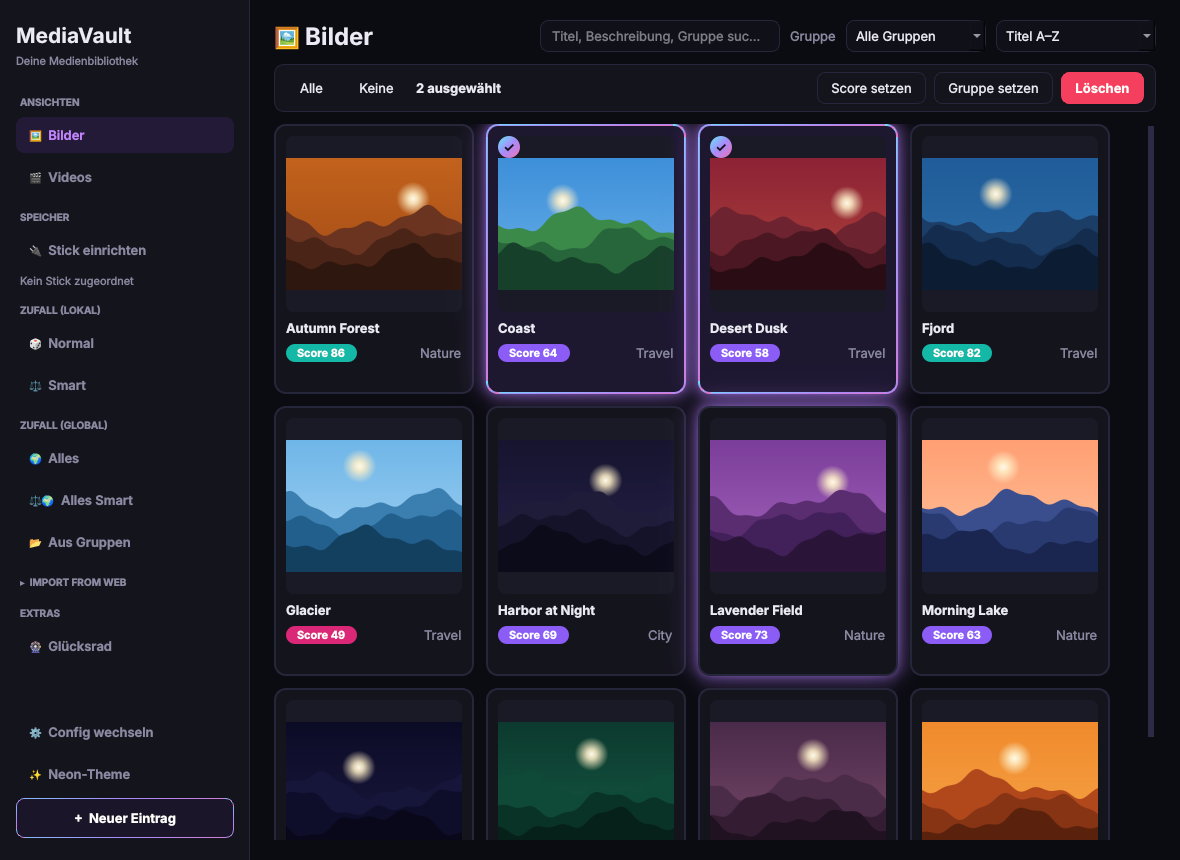
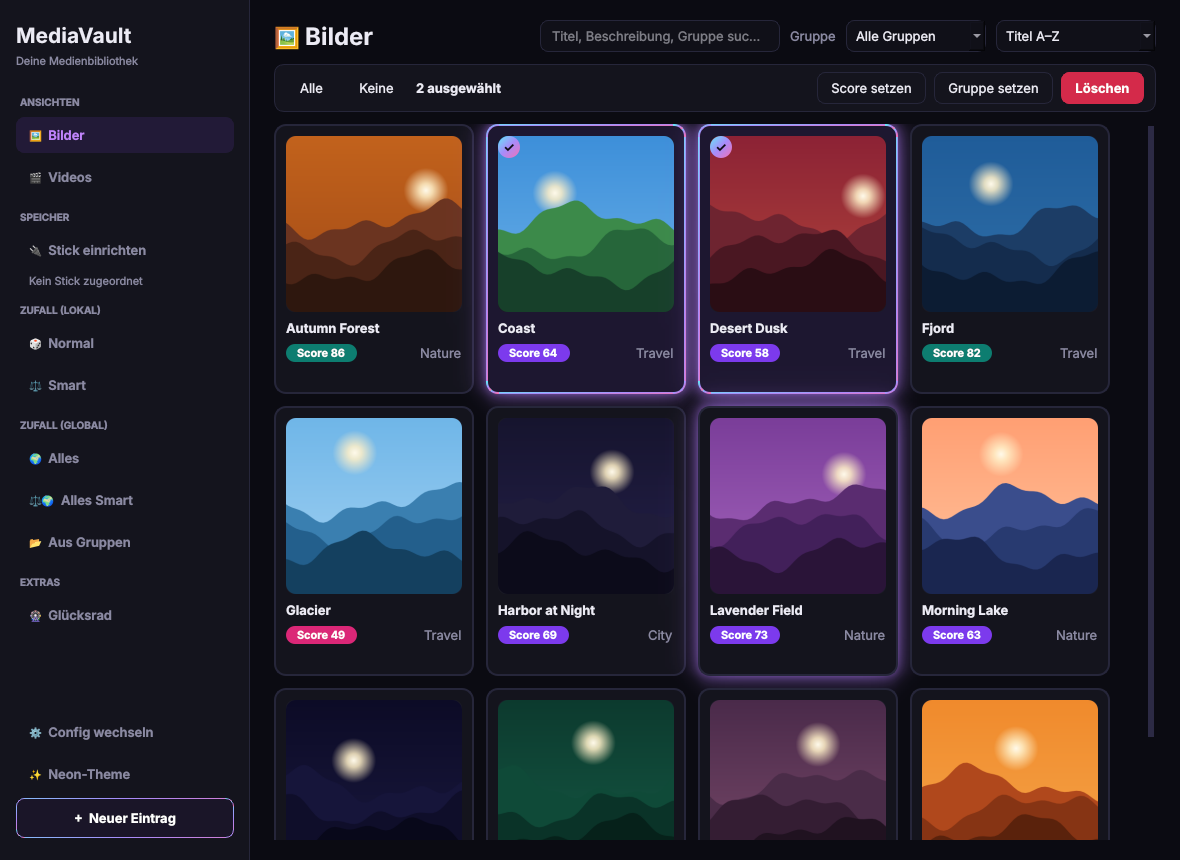
Fix: Design critique findings (contrast, previews, sidebar) (#17)

diff --git a/mediavault/gui/theme.py b/mediavault/gui/theme.py
@@ -47,21 +47,23 @@ PALETTES: dict[str, dict[str, str]] = {
         "primary": "#4f8cff",
         "primary_hover": "#6ba0ff",
         "primary_text": "#ffffff",
-        "danger": "#e05252",
-        "danger_hover": "#f06565",
+        "danger": "#c93a3a",
+        "danger_hover": "#b83232",
         "selection_bg": "#26344c",
         "selection_fill": "rgba(79, 140, 255, 48)",
         "nav_active_bg": "#2c3b55",
+        "nav_active_text": "#8ab4ff",
         "scrollbar": "#454d5c",
         "scrollbar_hover": "#555f72",
-        "score_high": "#2f9e6f",
-        "score_mid": "#c08a2e",
-        "score_low": "#c2703a",
-        "score_bad": "#d9534f",
+        "score_high": "#1e7a52",
+        "score_mid": "#8a6d0f",
+        "score_low": "#b4501f",
+        "score_bad": "#c0392b",
         "accent": "#4f8cff",
         "accent_hover": "#6ba0ff",
-        "primary_fill": "#4f8cff",
-        "primary_fill_hover": "#6ba0ff",
+        # Darker than primary, so white button text stays readable (4.5:1).
+        "primary_fill": "#2f6be0",
+        "primary_fill_hover": "#2559c4",
         "primary_fill_text": "#ffffff",
         "glow": "",
     },
@@ -82,7 +84,8 @@ PALETTES: dict[str, dict[str, str]] = {
         "danger_hover": "#b91c1c",
         "selection_bg": "#e8efff",
         "selection_fill": "rgba(37, 99, 235, 40)",
-        "nav_active_bg": "#e3ecff",
+        "nav_active_bg": "#edf2ff",
+        "nav_active_text": "#2563eb",
         "scrollbar": "#c7cfdb",
         "scrollbar_hover": "#aeb9c9",
         "score_high": "#12805c",
@@ -110,15 +113,16 @@ PALETTES: dict[str, dict[str, str]] = {
         "primary": "#c084fc",
         "primary_hover": "#e879f9",
         "primary_text": "#0b0b12",
-        "danger": "#f43f5e",
-        "danger_hover": "#fb7185",
+        "danger": "#d42a4a",
+        "danger_hover": "#be123c",
         "selection_bg": "#1d1730",
         "selection_fill": "rgba(192, 132, 252, 50)",
         "nav_active_bg": "#221a37",
+        "nav_active_text": "#c084fc",
         "scrollbar": "#2c2a44",
         "scrollbar_hover": "#48436e",
-        "score_high": "#14b8a6",
-        "score_mid": "#8b5cf6",
+        "score_high": "#0d7d70",
+        "score_mid": "#7c3aed",
         "score_low": "#db2777",
         "score_bad": "#e11d48",
         "accent": _NEON_GRADIENT % ("#67e8f9", "#a78bfa", "#f472b6"),
@@ -214,6 +218,11 @@ QPushButton[variant="danger"]:hover {
     background-color: $danger_hover;
     border-color: $danger_hover;
 }
+QPushButton[variant="danger"]:disabled {
+    background-color: transparent;
+    border-color: $border;
+    color: $text_muted;
+}
 QPushButton[variant="ghost"] {
     background-color: transparent;
     border-color: transparent;
@@ -236,7 +245,7 @@ QPushButton[nav="true"]:hover { background-color: $hover; color: $text; }
 QPushButton[nav="true"]:checked {
     background-color: $nav_active_bg;
     border-color: $nav_active_bg;
-    color: $primary;
+    color: $nav_active_text;
 }
 
 QLineEdit, QTextEdit, QPlainTextEdit, QComboBox {
@@ -257,7 +266,7 @@ QComboBox QAbstractItemView {
     border-radius: 8px;
     padding: 4px;
     selection-background-color: $nav_active_bg;
-    selection-color: $primary;
+    selection-color: $nav_active_text;
     outline: none;
 }
 
@@ -381,7 +390,7 @@ QToolTip {
 }
 
 QMenu, QMessageBox { background-color: $surface; }
-QMenu::item:selected { background-color: $nav_active_bg; color: $primary; }
+QMenu::item:selected { background-color: $nav_active_bg; color: $nav_active_text; }
 """
 )
 

diff --git a/tests/test_theme.py b/tests/test_theme.py
@@ -65,3 +65,36 @@ def test_neon_cards_glow_only_when_selected_or_hovered(app, tmp_path):
 
     manager.apply(app, "dark")  # style change: no glow outside neon
     assert card.graphicsEffect() is None
+
+
+def _contrast(fg, bg):
+    """WCAG contrast ratio of two #rrggbb colors."""
+
+    def luminance(color):
+        channels = [int(color.lstrip("#")[i : i + 2], 16) / 255 for i in (0, 2, 4)]
+        linear = [
+            c / 12.92 if c <= 0.03928 else ((c + 0.055) / 1.055) ** 2.4
+            for c in channels
+        ]
+        return 0.2126 * linear[0] + 0.7152 * linear[1] + 0.0722 * linear[2]
+
+    high, low = sorted((luminance(fg), luminance(bg)), reverse=True)
+    return (high + 0.05) / (low + 0.05)
+
+
+@pytest.mark.parametrize("name", list(PALETTES))
+def test_text_contrast_meets_wcag_aa(name):
+    colors = PALETTES[name]
+    pairs = [
+        ("primary_fill_text", "primary_fill"),
+        ("nav_active_text", "nav_active_bg"),
+        ("text_muted", "bg"),
+        ("text_muted", "surface"),
+        ("text", "surface"),
+    ]
+    # Danger buttons and score badges use white text (see the stylesheet).
+    for key in ("danger", "score_high", "score_mid", "score_low", "score_bad"):
+        pairs.append(("#ffffff", key))
+    for fg, bg in pairs:
+        ratio = _contrast(colors.get(fg, fg), colors[bg])
+        assert ratio >= 4.5, (name, fg, bg, round(ratio, 2))

diff --git a/mediavault/gui/widgets.py b/mediavault/gui/widgets.py
@@ -85,13 +85,22 @@ def score_tier(score: int) -> str:
 
 
 def rounded_pixmap(
-    pixmap: QPixmap, size: int = IMAGE_SIZE, radius: int = IMAGE_RADIUS
+    pixmap: QPixmap,
+    size: int = IMAGE_SIZE,
+    radius: int = IMAGE_RADIUS,
+    fill: bool = False,
 ) -> QPixmap:
-    """Scale a pixmap into a centered square with rounded corners for the card."""
+    """Scale a pixmap into a centered square with rounded corners.
+
+    With ``fill`` the image covers the whole square and its edges are cropped,
+    as on the grid cards; otherwise it fits inside, as in the detail view.
+    """
     scaled = pixmap.scaled(
         size,
         size,
-        Qt.AspectRatioMode.KeepAspectRatio,
+        Qt.AspectRatioMode.KeepAspectRatioByExpanding
+        if fill
+        else Qt.AspectRatioMode.KeepAspectRatio,
         Qt.TransformationMode.SmoothTransformation,
     )
     canvas = QPixmap(size, size)
@@ -217,7 +226,7 @@ class MediaCard(QFrame):
     def set_pixmap(self, pixmap: QPixmap | None) -> None:
         """Show a preview, or the "Kein Vorschaubild" placeholder when there is none."""
         if pixmap and not pixmap.isNull():
-            self.img_lbl.setPixmap(rounded_pixmap(pixmap))
+            self.img_lbl.setPixmap(rounded_pixmap(pixmap, fill=True))
         else:
             self.img_lbl.setText("Kein Vorschaubild")
 

diff --git a/tests/test_card_grid.py b/tests/test_card_grid.py
@@ -105,3 +105,19 @@ def test_previews_loaded_for_another_library_are_discarded(app, monkeypatch):
     assert not grid.is_loading
     pixmap = grid._pixmaps["Bilder/1.png"]
     assert pixmap.toImage().pixelColor(0, 0) == QColor("blue")
+
+
+def test_card_preview_fills_the_square_and_detail_preview_fits(app):
+    from PyQt6.QtGui import QColor, QPixmap
+
+    from mediavault.gui.widgets import rounded_pixmap
+
+    wide = QPixmap(200, 100)
+    wide.fill(QColor("red"))
+
+    filled = rounded_pixmap(wide, size=100, radius=0, fill=True).toImage()
+    fitted = rounded_pixmap(wide, size=100, radius=0).toImage()
+
+    # Top edge: covered by the image on cards, empty (letterbox) in the detail view.
+    assert filled.pixelColor(50, 2).red() == 255
+    assert fitted.pixelColor(50, 2).alpha() == 0

diff --git a/mediavault/gui/sidebar.py b/mediavault/gui/sidebar.py
@@ -35,7 +35,8 @@ def _section_label(text: str) -> QLabel:
 def _hint_label() -> QLabel:
     """Create a small wrapped status line under a button."""
     label = hint_label()
-    label.setContentsMargins(4, 0, 0, 0)
+    # Align with the icon of the nav buttons above (12px padding + 1px border).
+    label.setContentsMargins(13, 0, 0, 0)
     return label
 
 
@@ -139,7 +140,7 @@ class Sidebar(QWidget):
 
         # Collapsed by default; the open/closed state is remembered.
         self._online_section = CollapsibleSection(
-            "IMPORT FROM WEB", ONLINE_SECTION_KEY, expanded=False
+            "WEB-IMPORT", ONLINE_SECTION_KEY, expanded=False
         )
         layout.addWidget(self._online_section)
         self._plugin_buttons: dict[str, QPushButton] = {}

diff --git a/tests/test_collapsible.py b/tests/test_collapsible.py
@@ -25,7 +25,7 @@ def settings(tmp_path):
 
 
 def _section(settings, **kwargs):
-    section = CollapsibleSection("IMPORT FROM WEB", KEY, settings=settings, **kwargs)
+    section = CollapsibleSection("WEB-IMPORT", KEY, settings=settings, **kwargs)
     button = QPushButton("Import")
     section.add_widget(button)
     return section, button

diff --git a/mediavault/gui/collapsible.py b/mediavault/gui/collapsible.py
@@ -1,6 +1,6 @@
 """Collapsible sidebar section whose open/closed state is remembered.
 
-Used for the "IMPORT FROM WEB" area of the sidebar. The state is stored in
+Used for the "WEB-IMPORT" area of the sidebar. The state is stored in
 ``QSettings`` under a key per section, so it survives restarts.
 """
 

diff --git a/README.md b/README.md
@@ -170,7 +170,7 @@ An import plugin is a folder with an `__init__.py` that defines `PLUGIN`.
 MediaVault discovers plugins in `plugins/` (committed) and `plugins/private/`
 (local only, ignored by git) at startup. A plugin only fetches posts; the
 preview, download queue and duplicate-aware import are provided by the app.
-Without plugins the "IMPORT FROM WEB" section of the sidebar stays hidden.
+Without plugins the "WEB-IMPORT" section of the sidebar stays hidden.
 
 The interface and a complete example are documented in
 [plugins/README.md](plugins/README.md).

diff --git a/plugins/README.md b/plugins/README.md
@@ -1,6 +1,6 @@
 # MediaVault plugins
 
-Import sources for the "IMPORT FROM WEB" section of the sidebar. Every plugin
+Import sources for the "WEB-IMPORT" section of the sidebar. Every plugin
 found here gets its own button there; without plugins the section is hidden.
 MediaVault itself does the rest: the preview where you pick posts, the
 download queue, and the import with duplicate detection.
